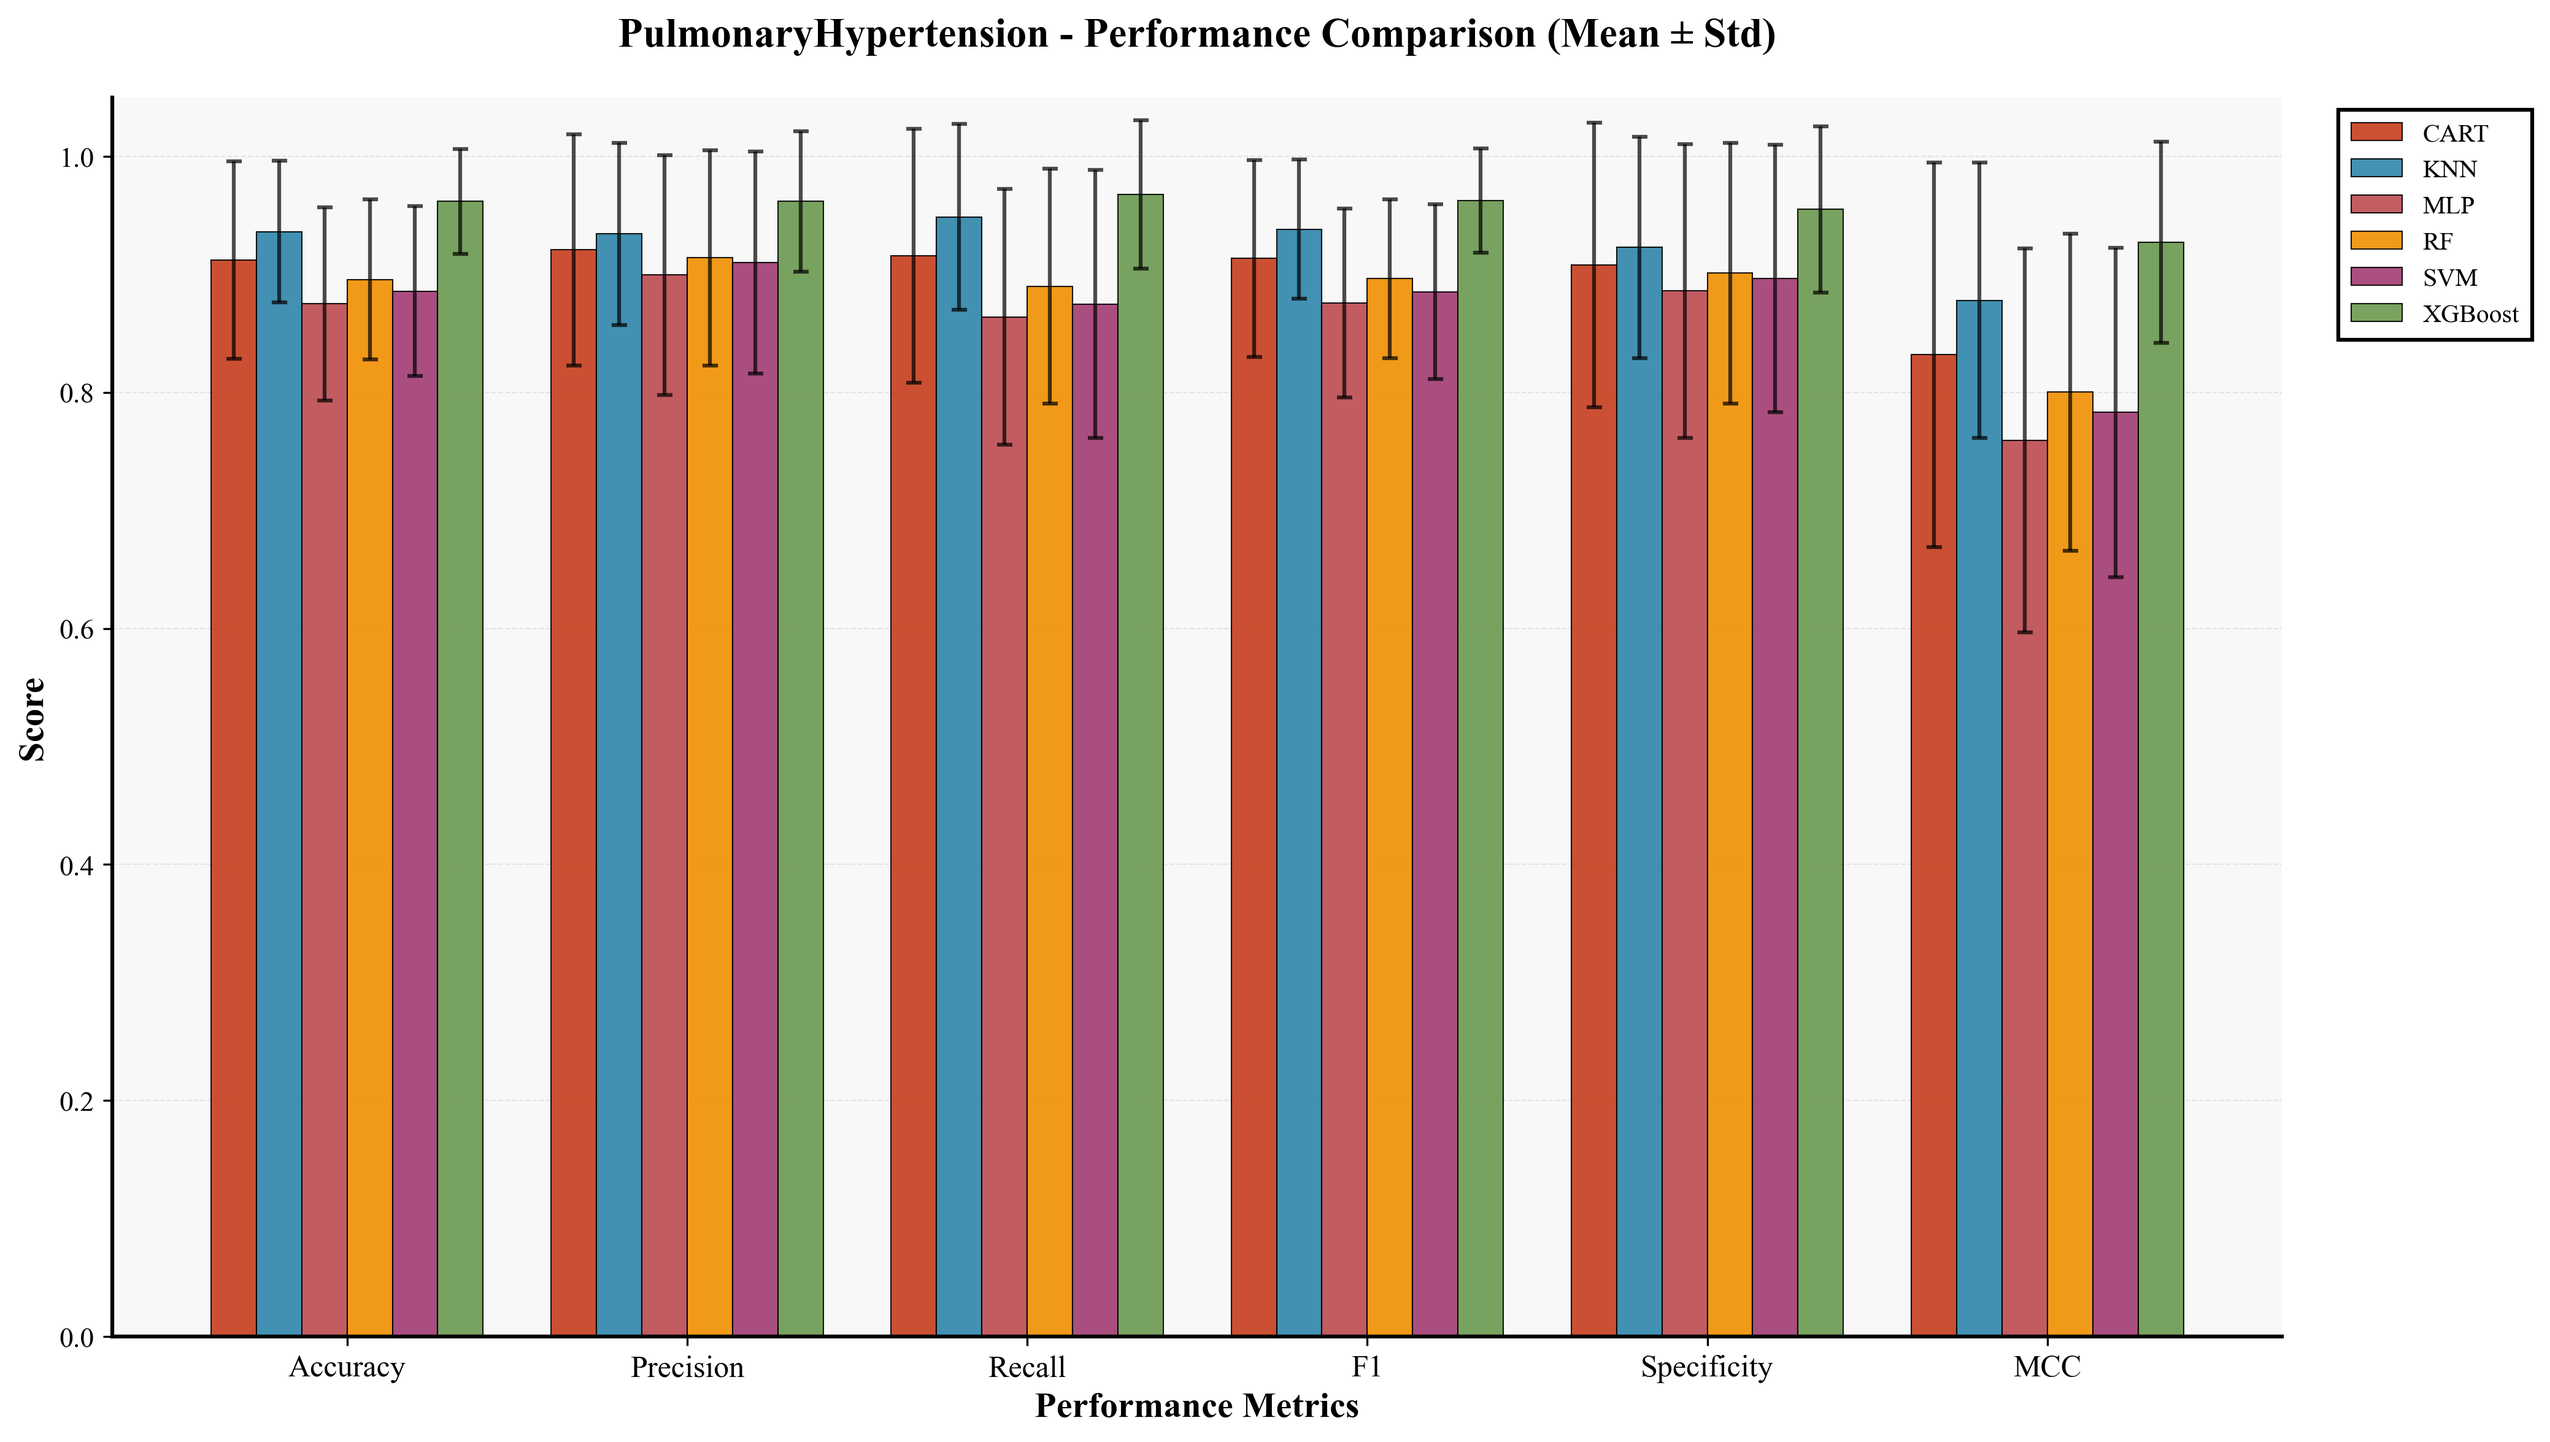
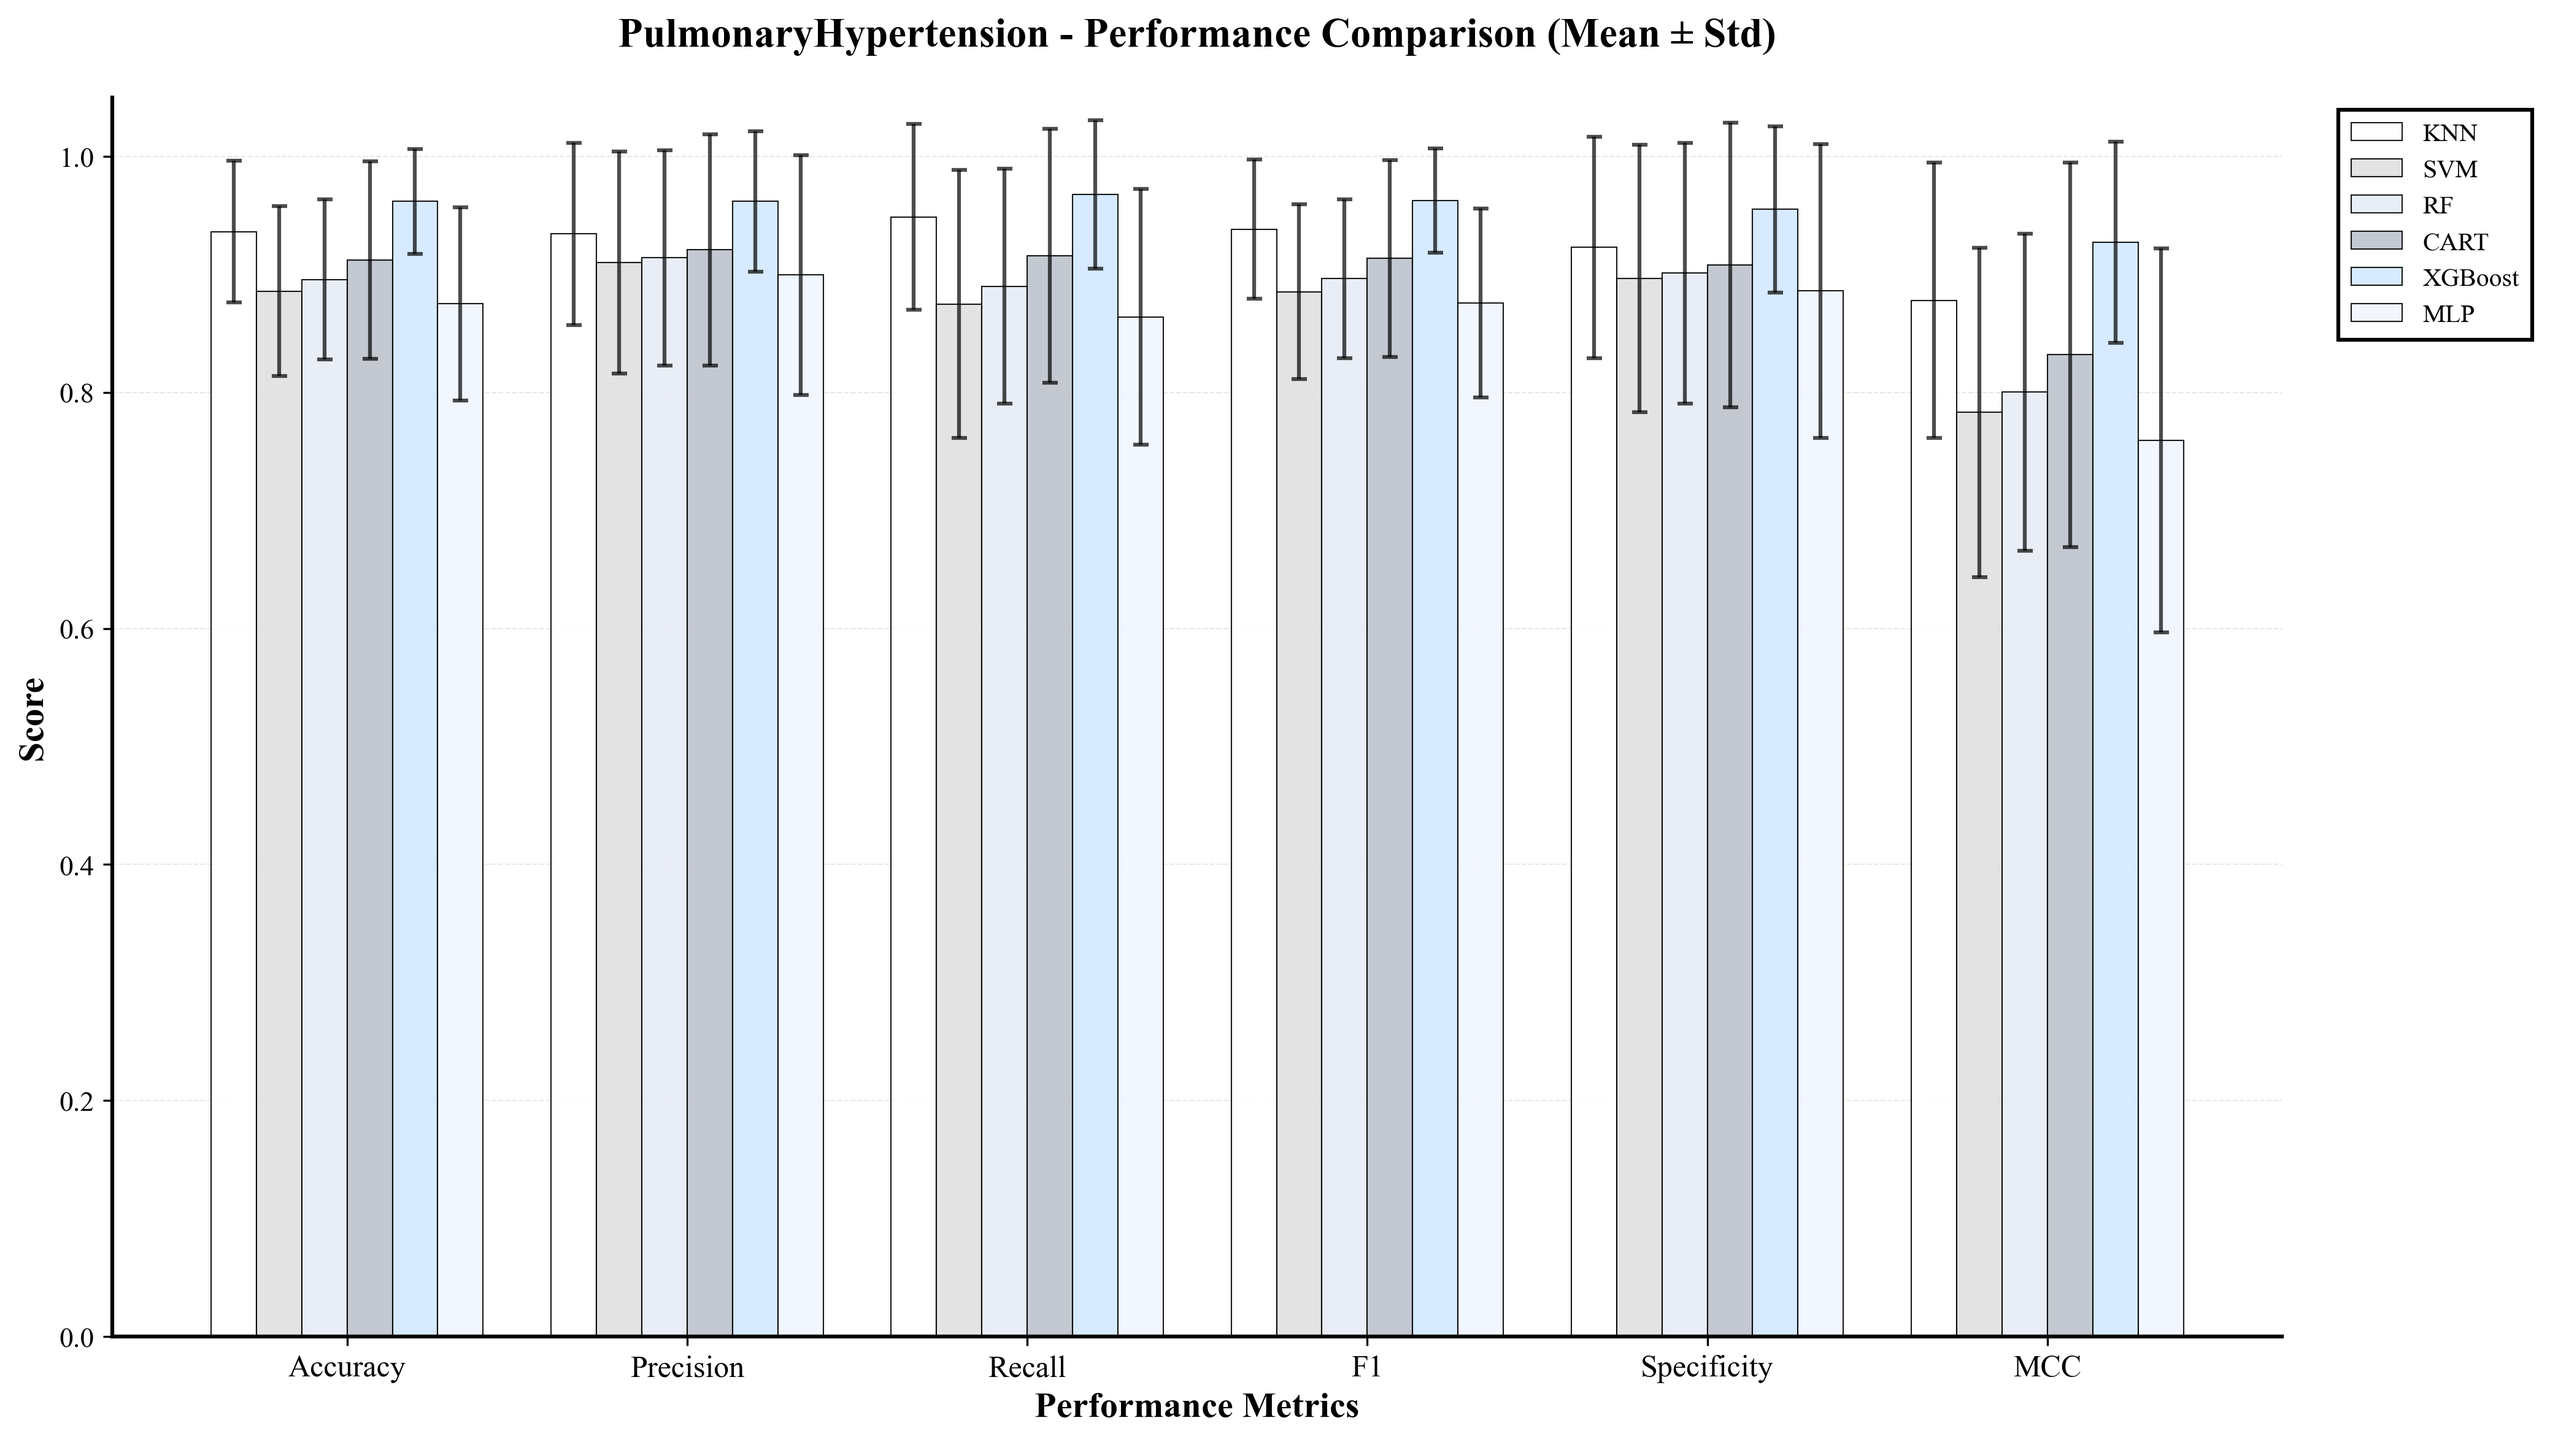
Fix the bar plot order (consistent as in the code)

diff --git a/plot_avg_std_metrics.py b/plot_avg_std_metrics.py
@@ -28,13 +28,13 @@ plt.rcParams['axes.spines.right'] = False
 
 # Professional color palette
 ALGORITHM_COLORS = {
-    'bLRRIME-KNN': '#2E86AB',     # Steel Blue
-    'bLRRIME-SVM': '#A23B72',     # Royal Purple
-    'bLRRIME-RF': '#F18F01',      # Tangerine
-    'bLRRIME-CART': '#C73E1D',    # Vermillion
-    'bLRRIME-XGBOOST': '#6A994E', # Forest Green
-    'bLRRIME-MLP': '#BC4B51'      # Dusty Rose
-}
+    'bLRRIME-KNN': '#FFFFFF',     # Steel Blue
+    'bLRRIME-SVM': '#e0e0e0',     # Royal Purple
+    'bLRRIME-RF': '#e6ebf5',      # Tangerine
+    'bLRRIME-CART': '#bdc2cc',    # Vermillion
+    'bLRRIME-XGBOOST': '#d3e8ff', # Forest Green
+    'bLRRIME-MLP': '#F0F5FF'      # Dusty Rose
+}      
 
 # Simplified algorithm names for display
 ALGORITHM_DISPLAY_NAMES = {
@@ -143,8 +143,19 @@ def create_metrics_avg_std_plot(
     # Calculate statistics
     stats_data = calculate_statistics(df, available_metrics)
     
-    # Sort algorithms for consistent ordering
-    sorted_algorithms = sorted(stats_data.keys())
+    # Use the order from ALGORITHM_DISPLAY_NAMES if defined, otherwise use what's in the data
+    # This ensures bars follow the predefined display sequence
+    ordered_algorithms = []
+    for algo_key in ALGORITHM_DISPLAY_NAMES.keys():
+        if algo_key in stats_data:
+            ordered_algorithms.append(algo_key)
+    
+    # Add any algorithms not in ALGORITHM_DISPLAY_NAMES (for flexibility)
+    for algo_key in stats_data.keys():
+        if algo_key not in ordered_algorithms:
+            ordered_algorithms.append(algo_key)
+    
+    sorted_algorithms = ordered_algorithms
     
     # Create figure and axis
     fig, ax = plt.subplots(figsize=figsize, facecolor='white')
@@ -234,7 +245,7 @@ def create_metrics_avg_std_plot(
     legend.get_frame().set_linewidth(1.5)
     
     # Add subtle background
-    ax.set_facecolor('#F8F8F8')
+    ax.set_facecolor('white')
     
     # Tight layout
     plt.tight_layout()
@@ -344,7 +355,7 @@ def main():
 if __name__ == '__main__':
     # For testing/demonstration, you can run directly with:
     # Example usage:
-    test_csv = r'D:\Github\LRRIME-25-10-31\Exp 1024\FS 1031\clf_ablation_06_36_08-SINGLE_TF_MULTI_CLF-PulmonaryHypertension\detailed_data\all_fold_results.csv'
+    test_csv = r'D:\Github\fs-plot\clf_ablation_06_36_08-SINGLE_TF_MULTI_CLF-PulmonaryHypertension\detailed_data\all_fold_results.csv'
     
     if os.path.exists(test_csv):
         create_metrics_avg_std_plot(

diff --git a/plot_performance_metrics.py b/plot_performance_metrics.py
@@ -134,8 +134,20 @@ def create_performance_comparison_subplots(
     # Calculate statistics
     algo_metrics = calculate_algorithm_metrics(df)
     
-    # Sort algorithms for consistent ordering
-    algorithms = sorted(df['Algorithm'].unique())
+    # Use the order from ALGORITHM_DISPLAY_NAMES if defined, otherwise use what's in the data
+    # This ensures bars follow the predefined display sequence
+    data_algorithms = df['Algorithm'].unique()
+    ordered_algorithms = []
+    for algo_key in ALGORITHM_DISPLAY_NAMES.keys():
+        if algo_key in data_algorithms:
+            ordered_algorithms.append(algo_key)
+    
+    # Add any algorithms not in ALGORITHM_DISPLAY_NAMES (for flexibility)
+    for algo_key in data_algorithms:
+        if algo_key not in ordered_algorithms:
+            ordered_algorithms.append(algo_key)
+    
+    algorithms = ordered_algorithms
     
     # Create figure with subplots
     n_rows, n_cols = layout
@@ -373,7 +385,19 @@ def create_boxplot_comparison(
         labels = []
         colors = []
         
-        for algorithm in sorted(df['Algorithm'].unique()):
+        # Use the predefined order from ALGORITHM_DISPLAY_NAMES
+        data_algorithms = df['Algorithm'].unique()
+        ordered_algorithms = []
+        for algo_key in ALGORITHM_DISPLAY_NAMES.keys():
+            if algo_key in data_algorithms:
+                ordered_algorithms.append(algo_key)
+        
+        # Add any algorithms not in ALGORITHM_DISPLAY_NAMES
+        for algo_key in data_algorithms:
+            if algo_key not in ordered_algorithms:
+                ordered_algorithms.append(algo_key)
+        
+        for algorithm in ordered_algorithms:
             algo_data = df[df['Algorithm'] == algorithm][metric].values
             data_for_plot.append(algo_data)
             labels.append(ALGORITHM_DISPLAY_NAMES.get(algorithm, algorithm))
@@ -483,7 +507,7 @@ def main():
 
 if __name__ == '__main__':
     # For testing/demonstration
-    test_csv = r'D:\Github\LRRIME-25-10-31\Exp 1024\FS 1031\clf_ablation_06_36_08-SINGLE_TF_MULTI_CLF-PulmonaryHypertension\detailed_data\all_fold_results.csv'
+    test_csv = r'D:\Github\fs-plot\clf_ablation_06_36_08-SINGLE_TF_MULTI_CLF-PulmonaryHypertension\detailed_data\all_fold_results.csv'
     
     if os.path.exists(test_csv):
         # Create all three types of plots

diff --git a/run_all_plots.py b/run_all_plots.py
@@ -189,7 +189,7 @@ if __name__ == "__main__":
     
     # For testing with the available data:
     if len(sys.argv) == 1:  # No arguments provided, use test data
-        test_csv = r'D:\Github\LRRIME-25-10-31\Exp 1024\FS 1031\clf_ablation_06_36_08-SINGLE_TF_MULTI_CLF-PulmonaryHypertension\detailed_data\all_fold_results.csv'
+        test_csv = r'D:\Github\fs-plot\clf_ablation_06_36_08-SINGLE_TF_MULTI_CLF-PulmonaryHypertension\detailed_data\all_fold_results.csv'
         if os.path.exists(test_csv):
             print("Running with test data...")
             generate_all_plots(test_csv, None, 'PulmonaryHypertension')
